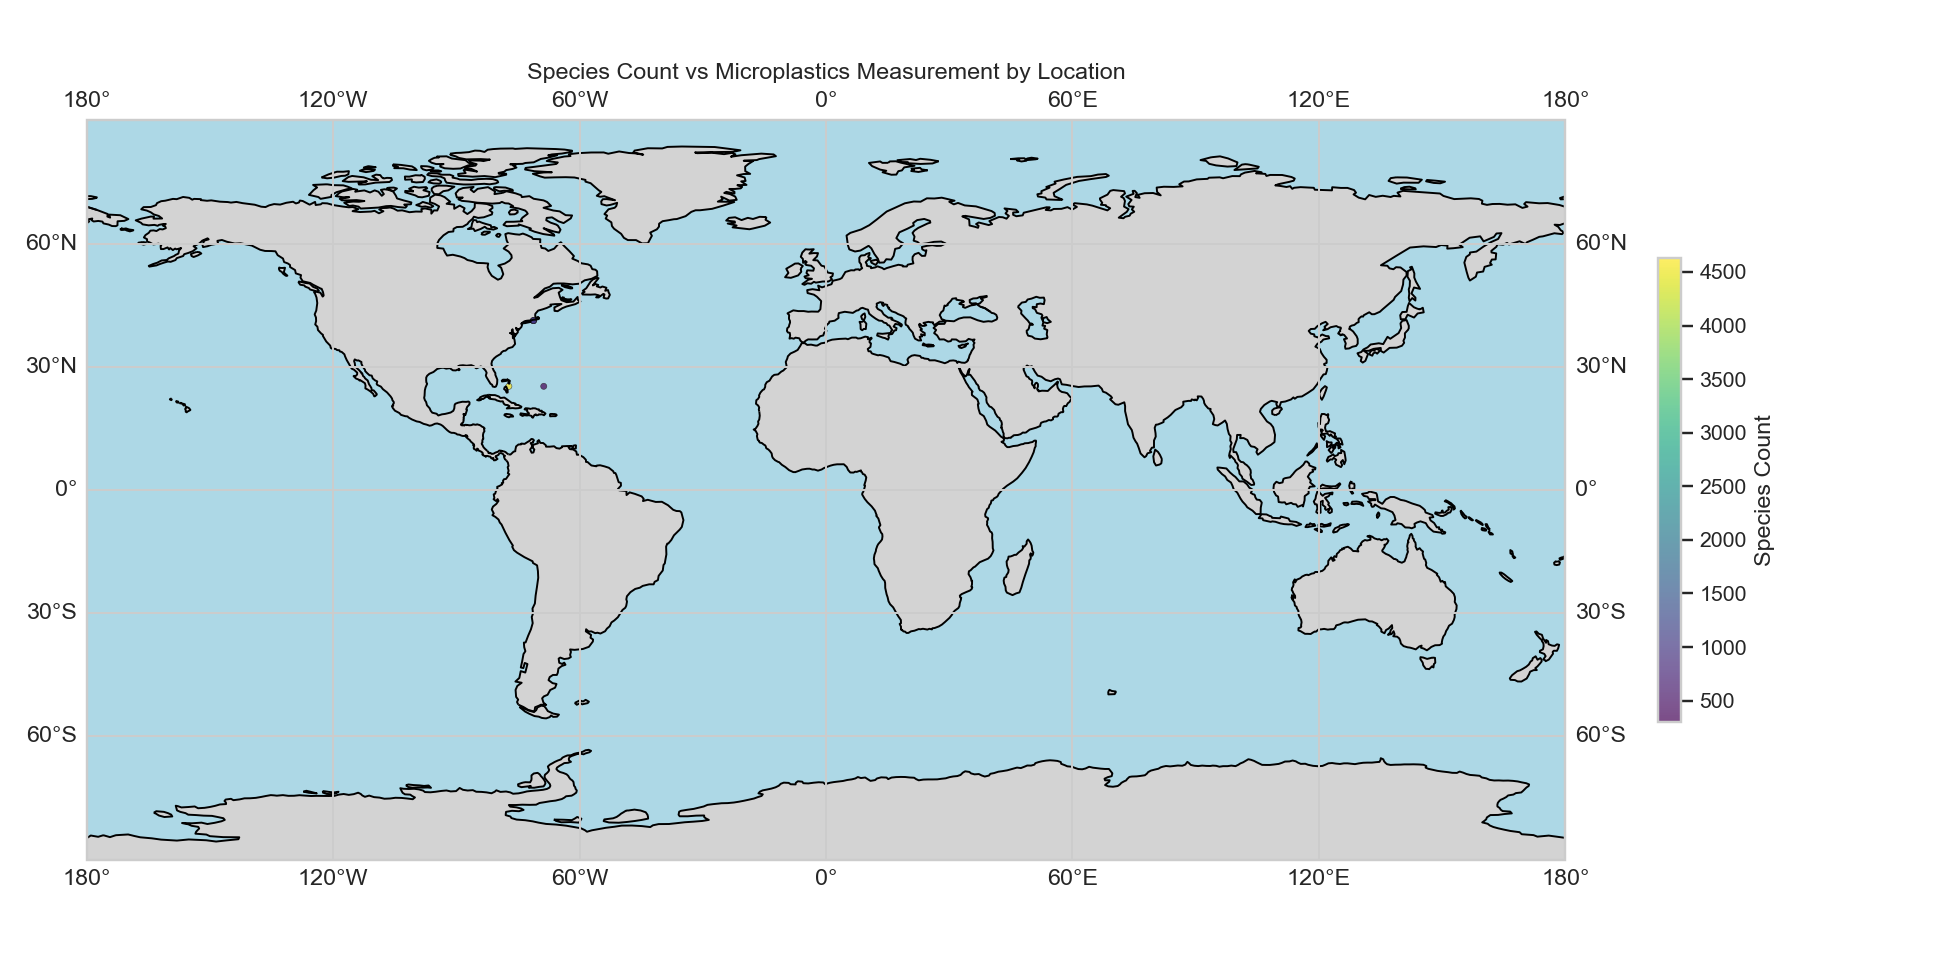
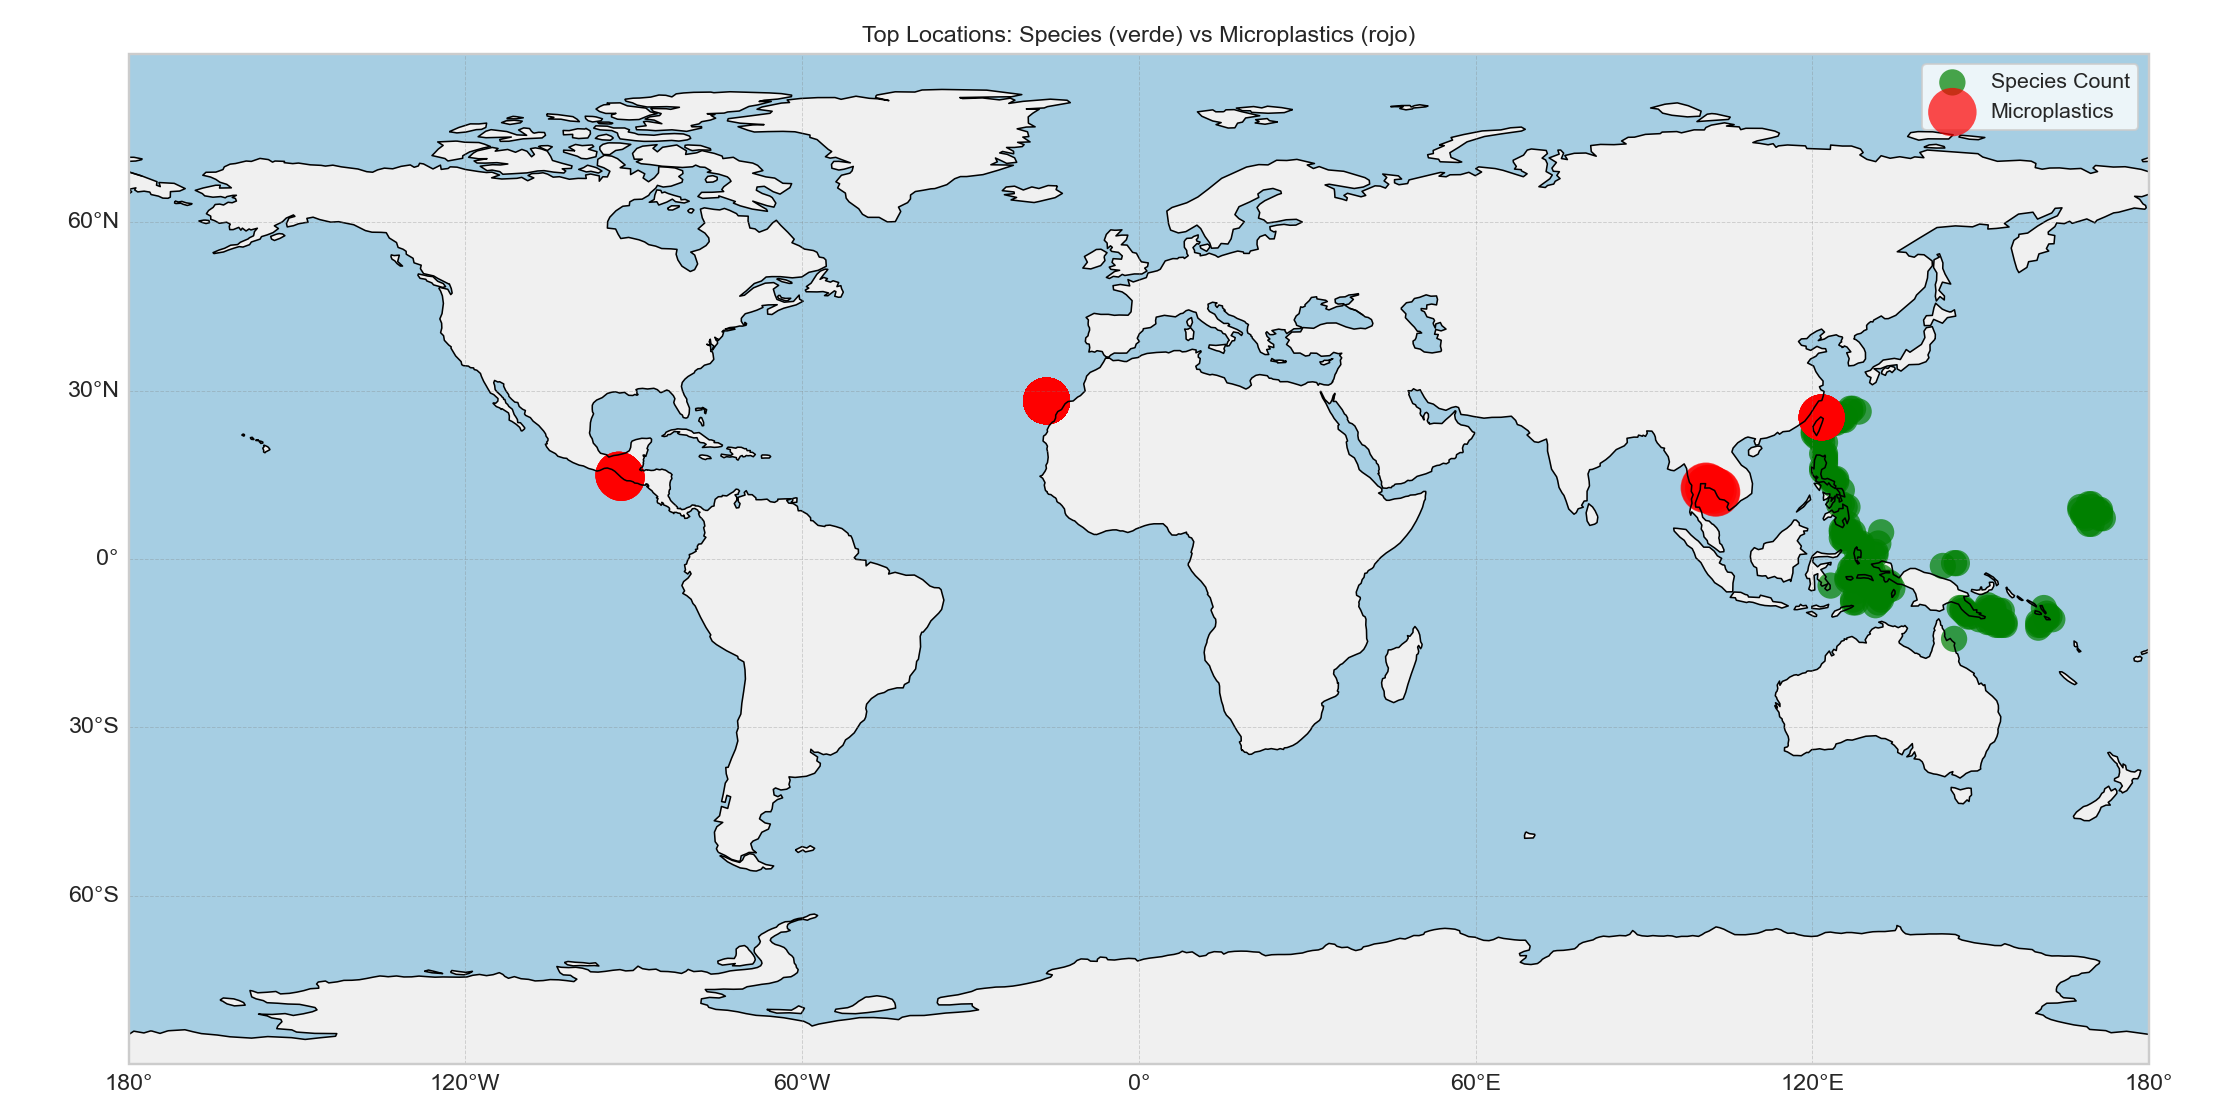
map plot

diff --git a/reports/visualizations.py b/reports/visualizations.py
@@ -119,41 +119,82 @@ def plot_conc_matrix(df, out_path):
     csv_path = out_path.replace(".png", ".csv")
     _save_table(df, csv_path)
 
-def plot_species_micro_map(df: pd.DataFrame, out_path: str):
-    df = df.dropna(subset=["latitude", "longitude", "species_count", "measurement"])
+def plot_species_micro_map(df: pd.DataFrame, out_path: str, top_n=200):
+    """
+    Global map mostrando microplastics (rojo) y especies (verde) solo para los puntos más importantes.
+    top_n: número máximo de puntos a mostrar por cada categoría
+    """
+    import numpy as np
+    import matplotlib.pyplot as plt
+    import cartopy.crs as ccrs
+    import cartopy.feature as cfeature
+
+    df = df.dropna(subset=["latitude", "longitude"])
     if df.empty:
+        print("No hay datos válidos para mostrar.")
         return
 
+    # Convertir coordenadas a float y depurar
     df["latitude"] = df["latitude"].astype(float)
     df["longitude"] = df["longitude"].astype(float)
+    df = df[(df["latitude"] >= -90) & (df["latitude"] <= 90)]
+    df["longitude"] = df["longitude"].apply(lambda x: x if x <= 180 else x - 360)
+    df = df[(df["longitude"] >= -180) & (df["longitude"] <= 180)]
 
-    sizes = np.clip(df["measurement"], 0, None) * 10
-    sizes = np.clip(sizes, 10, 300)
-    colors = df["species_count"]
+    # Seleccionar top_n por species_count
+    df_species = df[df["species_count"].notna()]
+    df_species = df_species.sort_values("species_count", ascending=False).head(top_n)
 
-    plt.figure(figsize=(14,7))
+    # Seleccionar top_n por measurement
+    df_micro = df[df["measurement"].notna()]
+    df_micro = df_micro.sort_values("measurement", ascending=False).head(top_n)
+
+    # Tamaños proporcionales
+    sizes_species = np.clip(df_species["species_count"], 0, None) * 5
+    sizes_species = np.clip(sizes_species, 5, 150)
+
+    sizes_species = np.log1p(df_species["species_count"]) * 20
+    sizes_micro = np.log1p(df_micro["measurement"]) * 50
+
+    # Crear mapa
+    plt.figure(figsize=(16,8))
     ax = plt.axes(projection=ccrs.PlateCarree())
     ax.set_global()
-    ax.coastlines()
-    ax.add_feature(cfeature.LAND, facecolor="lightgray")
-    ax.add_feature(cfeature.OCEAN, facecolor="lightblue")
-    ax.gridlines(draw_labels=True, dms=True, x_inline=False, y_inline=False)
+    ax.coastlines(linewidth=0.8)
+    ax.add_feature(cfeature.LAND, facecolor="#f0f0f0")
+    ax.add_feature(cfeature.OCEAN, facecolor="#a6cee3")
+    gl = ax.gridlines(draw_labels=True, linewidth=0.5, color='gray', alpha=0.3, linestyle='--')
+    gl.top_labels = False
+    gl.right_labels = False
 
-    scatter = ax.scatter(
-        df["longitude"], df["latitude"],
-        s=sizes,
-        c=colors,
-        cmap="viridis",
+    # Scatter especies (verde)
+    ax.scatter(
+        df_species["longitude"], df_species["latitude"],
+        s=sizes_species,
+        c="green",
         alpha=0.7,
-        edgecolor="k",
-        linewidth=0.3,
-        transform=ccrs.PlateCarree()
+        edgecolor='none',
+        transform=ccrs.PlateCarree(),
+        label="Species Count"
     )
-    plt.colorbar(scatter, label="Species Count", orientation="vertical", shrink=0.5)
-    plt.title("Species Count vs Microplastics Measurement by Location")
+
+    # Scatter microplastics (rojo)
+    ax.scatter(
+        df_micro["longitude"], df_micro["latitude"],
+        s=sizes_micro,
+        c="red",
+        alpha=0.7,
+        edgecolor='none',
+        transform=ccrs.PlateCarree(),
+        label="Microplastics"
+    )
+
+    plt.legend(loc="upper right")
+    plt.title("Top Locations: Species (verde) vs Microplastics (rojo)")
     plt.tight_layout()
     plt.savefig(out_path, dpi=140)
-    plt.close()
+    plt.show()
+
 
 # ---------------------------
 # Generate All Figures

diff --git a/debug.py b/debug.py
@@ -1,0 +1,104 @@
+# debug_map.py
+import pandas as pd
+import matplotlib.pyplot as plt
+import cartopy.crs as ccrs
+import cartopy.feature as cfeature
+from sqlalchemy import create_engine, text
+import numpy as np
+
+# ---------------------------
+# Configura tu conexión a la base de datos
+# ---------------------------
+# Ejemplo MySQL: 
+# engine = create_engine("mysql+pymysql://usuario:password@host:puerto/dbname")
+engine = create_engine("mysql+pymysql://root:root@localhost:3306/ods14")  # Cambia esto
+
+# ---------------------------
+# Query: Extrae todas las coordenadas y datos
+# ---------------------------
+PAIRED_OBSERVATIONS_DEBUG = text("""
+SELECT
+  r.region,
+  o.ocean,
+  s.location_id,
+  s.species_count,
+  m.measurement,
+  m.water_sample_depth,
+  l.latitude,
+  l.longitude,
+  d.full_date
+FROM fact_species s
+JOIN fact_microplastics m ON m.location_id = s.location_id
+LEFT JOIN dim_region r ON m.region_id = r.region_id
+LEFT JOIN dim_ocean o ON m.ocean_id = o.ocean_id
+LEFT JOIN dim_location l ON s.location_id = l.location_id
+LEFT JOIN dim_date d ON m.date_id = d.date_id
+WHERE l.latitude IS NOT NULL
+  AND l.longitude IS NOT NULL;
+""")
+
+# ---------------------------
+# Función para depurar y mostrar mapa
+# ---------------------------
+def debug_species_micro_map():
+    # Leer datos
+    df = pd.read_sql(PAIRED_OBSERVATIONS_DEBUG, con=engine)
+    
+    # Mostrar algunas filas y tipos para depuración
+    print("Datos crudos extraídos:")
+    print(df.head(10))
+    print("\nTipos de columnas:")
+    print(df.dtypes)
+    print("\nNúmero de filas:", len(df))
+
+    # Convertir coordenadas a float
+    df["latitude"] = df["latitude"].astype(float)
+    df["longitude"] = df["longitude"].astype(float)
+
+    # Depurar coordenadas fuera de rango
+    df = df[(df["latitude"] >= -90) & (df["latitude"] <= 90)]
+    df["longitude"] = df["longitude"].apply(lambda x: x if x <= 180 else x - 360)
+    df = df[(df["longitude"] >= -180) & (df["longitude"] <= 180)]
+
+    print("\nDatos depurados:")
+    print(df.head(10))
+    print("\nNúmero de filas después de limpiar coordenadas:", len(df))
+
+    if df.empty:
+        print("No hay datos válidos para mostrar.")
+        return
+
+    # Preparar tamaños y colores
+    sizes = np.clip(df["measurement"], 0, None) * 10
+    sizes = np.clip(sizes, 10, 300)
+    colors = df["species_count"]
+
+    # Crear mapa
+    plt.figure(figsize=(16,8))
+    ax = plt.axes(projection=ccrs.PlateCarree())
+    ax.set_global()
+    ax.coastlines()
+    ax.add_feature(cfeature.LAND, facecolor="lightgray")
+    ax.add_feature(cfeature.OCEAN, facecolor="lightblue")
+    ax.gridlines(draw_labels=True, dms=True, x_inline=False, y_inline=False)
+
+    scatter = ax.scatter(
+        df["longitude"], df["latitude"],
+        s=sizes,
+        c=colors,
+        cmap="viridis",
+        alpha=0.7,
+        edgecolor="k",
+        linewidth=0.3,
+        transform=ccrs.PlateCarree()
+    )
+
+    plt.colorbar(scatter, label="Species Count", orientation="vertical", shrink=0.5)
+    plt.title("Species Count vs Microplastics Measurement (Debug)")
+    plt.show()
+
+# ---------------------------
+# Ejecutar depuración
+# ---------------------------
+if __name__ == "__main__":
+    debug_species_micro_map()

diff --git a/DB/queries.py b/DB/queries.py
@@ -158,13 +158,11 @@ SELECT
   l.longitude,
   d.full_date
 FROM fact_species s
-JOIN fact_microplastics m ON m.location_id = s.location_id
+LEFT JOIN fact_microplastics m ON m.location_id = s.location_id
 LEFT JOIN dim_region r ON m.region_id = r.region_id
 LEFT JOIN dim_ocean o ON m.ocean_id = o.ocean_id
 LEFT JOIN dim_location l ON s.location_id = l.location_id
 LEFT JOIN dim_date d ON m.date_id = d.date_id
-WHERE (:start_date IS NULL OR d.full_date >= :start_date)
-  AND (:end_date IS NULL OR d.full_date < :end_date)
-  AND l.latitude BETWEEN -90 AND 90
-  AND l.longitude BETWEEN -180 AND 180;
+WHERE l.latitude IS NOT NULL
+  AND l.longitude IS NOT NULL;
 """)
